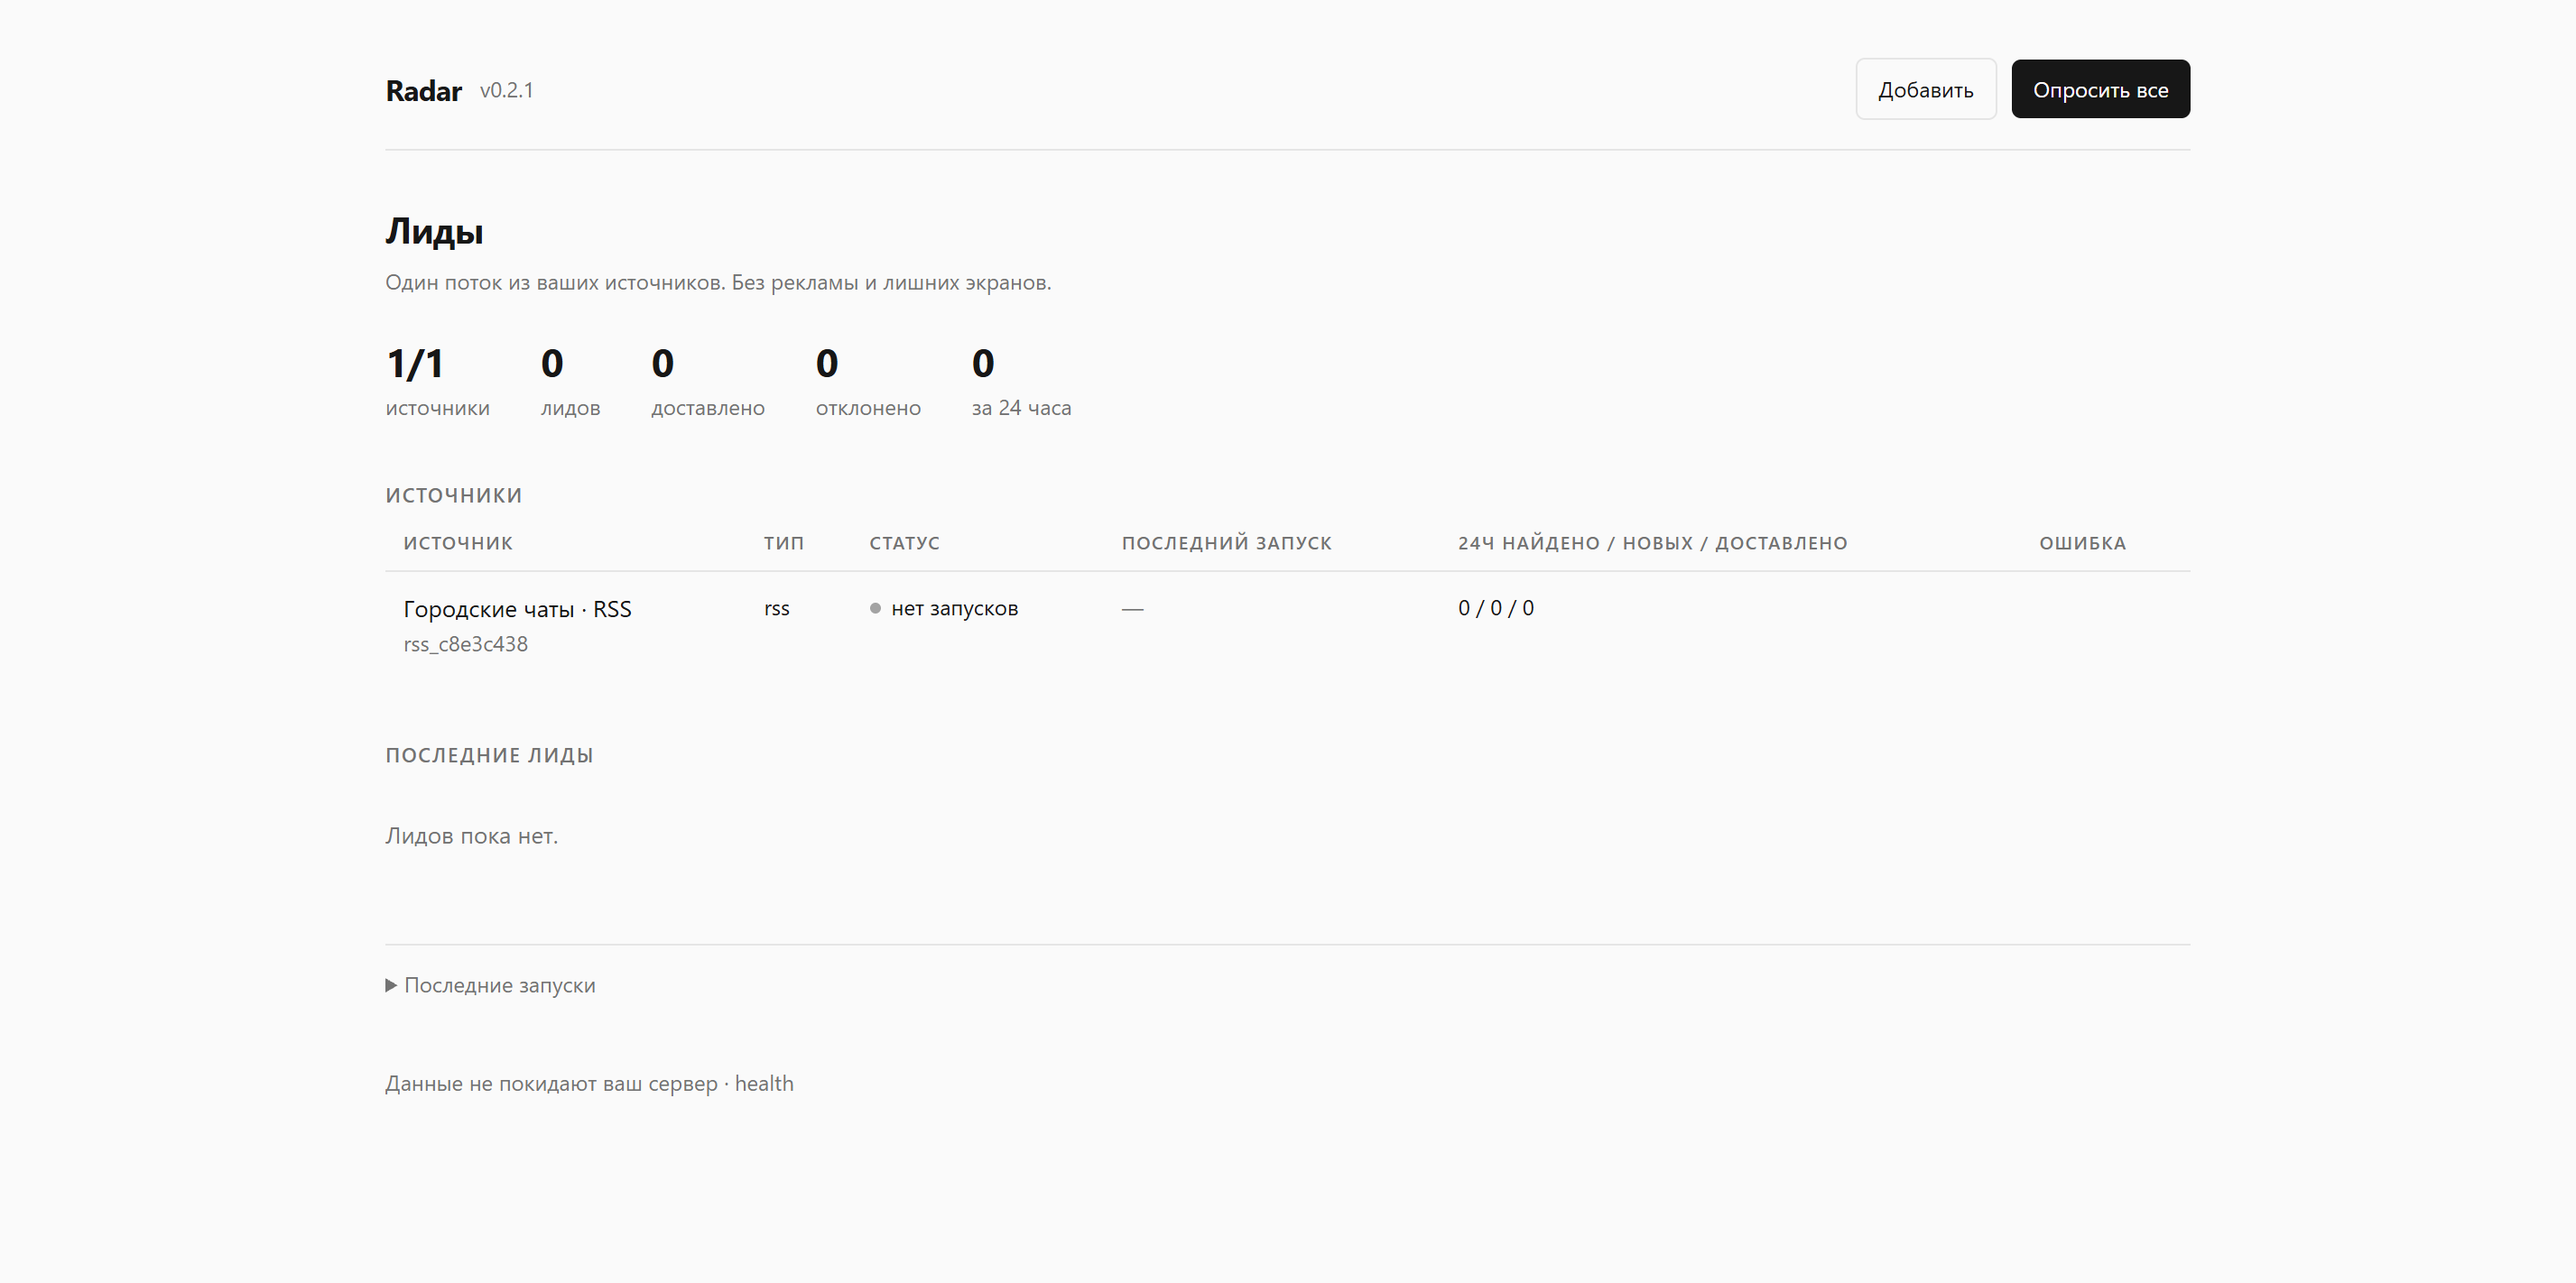
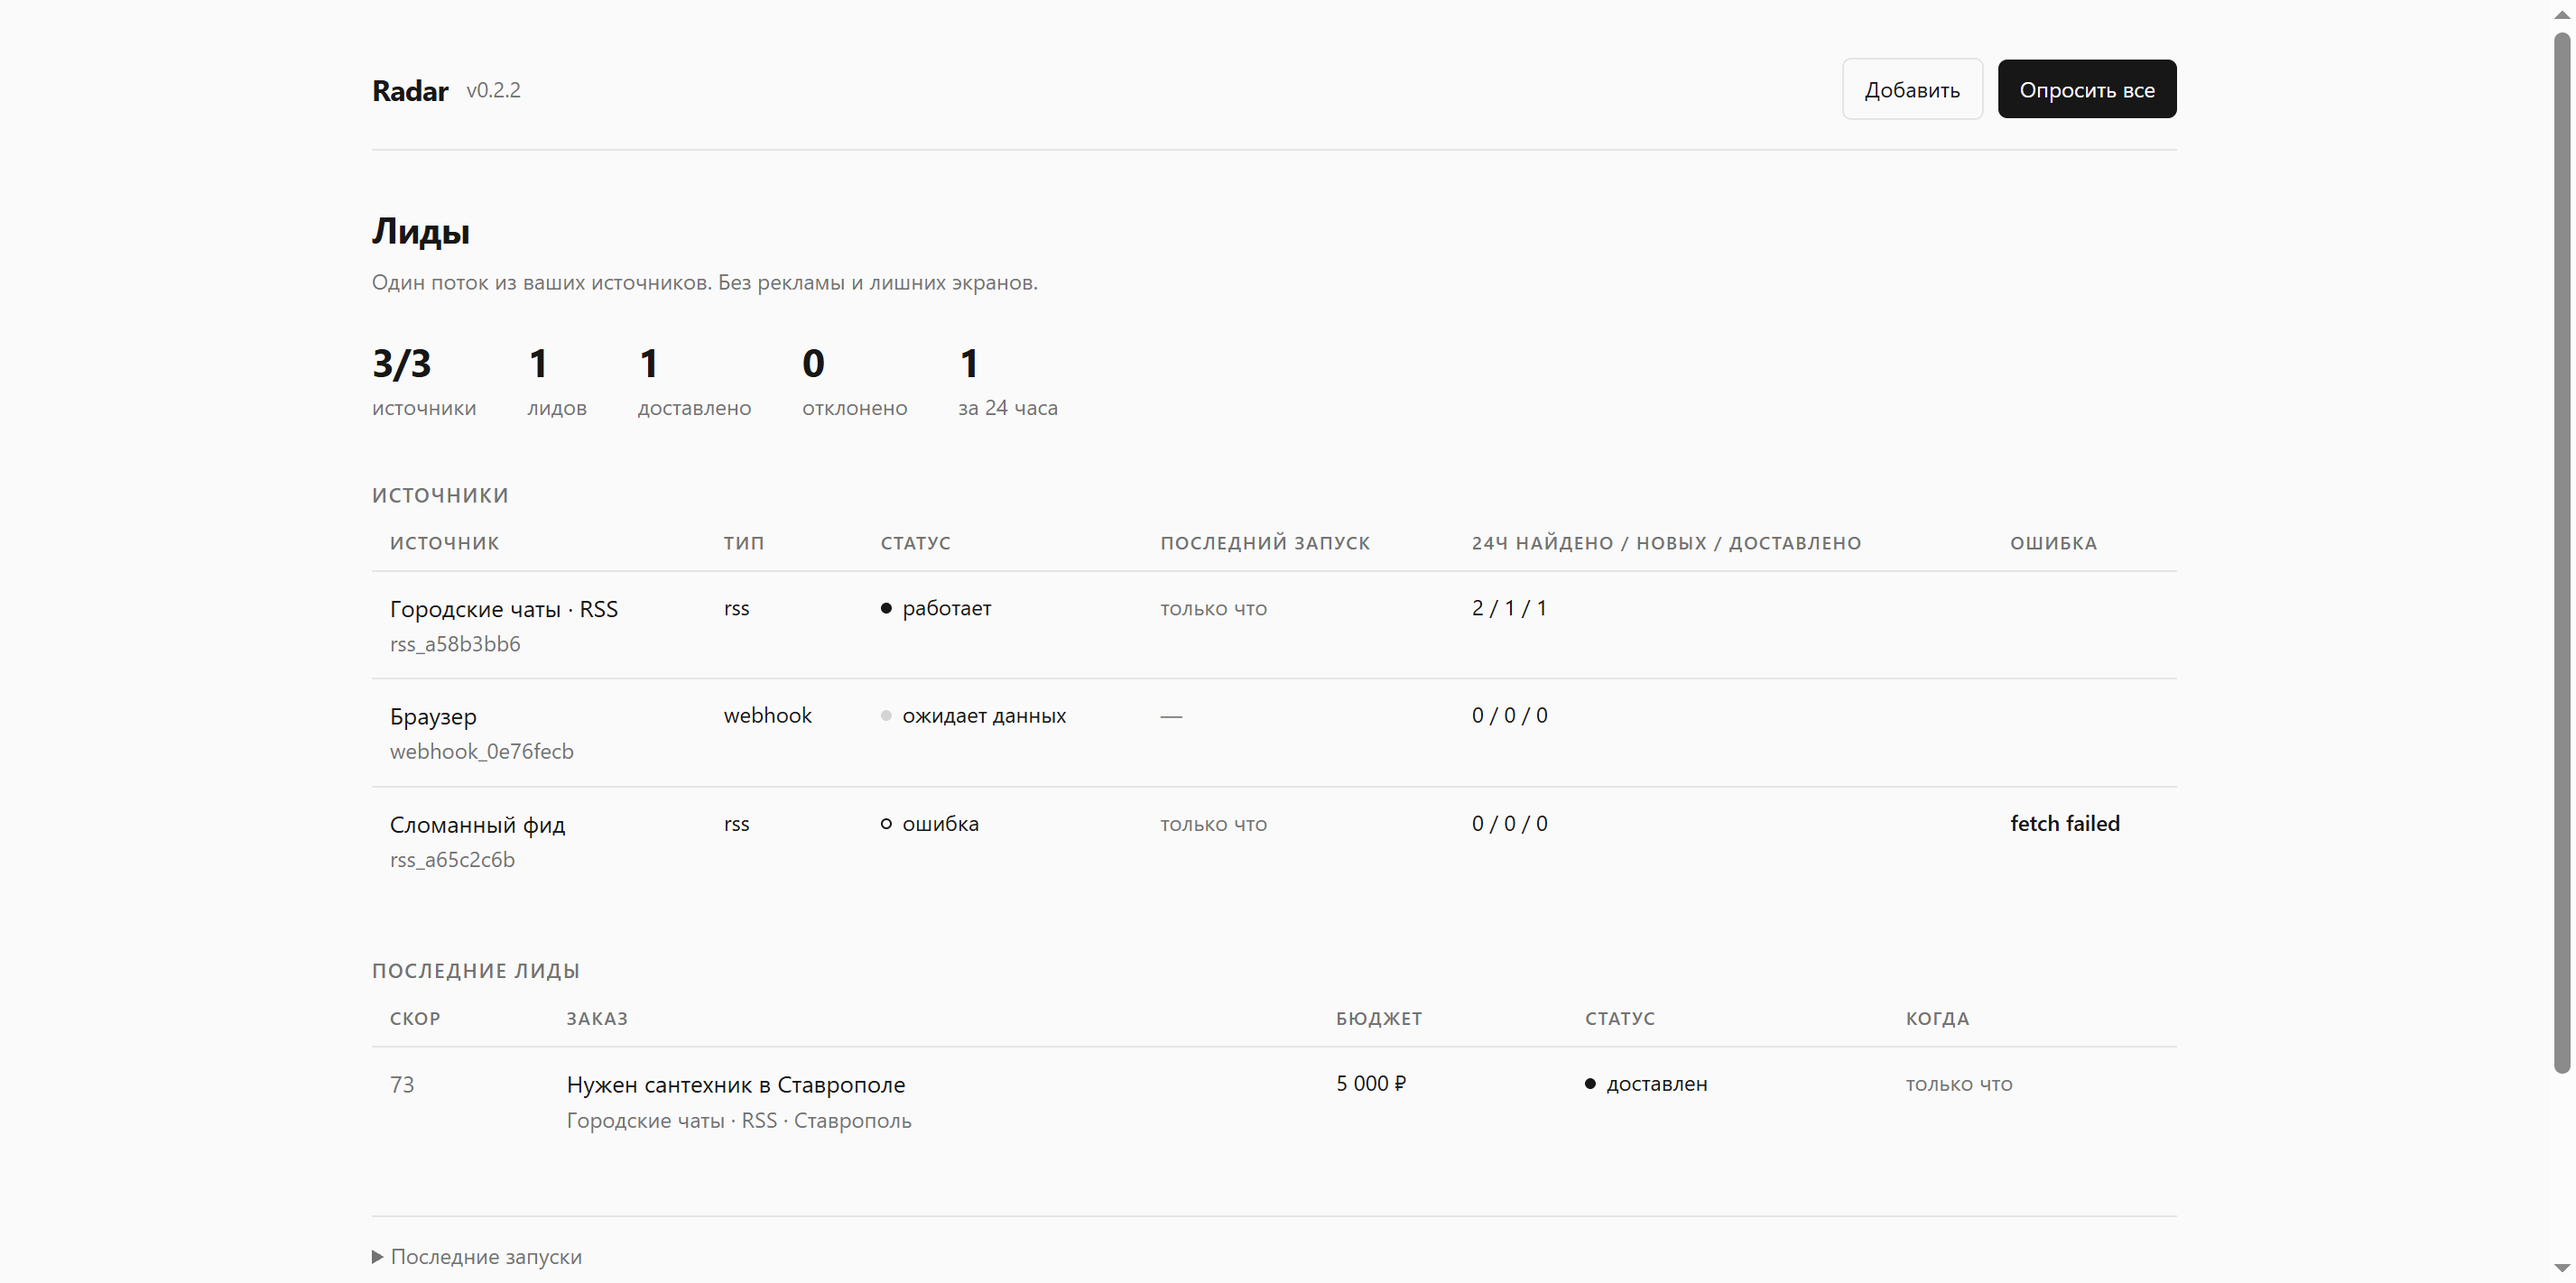
style: make the interface fully monochrome

diff --git a/src/server/ui.ts b/src/server/ui.ts
@@ -59,7 +59,7 @@ const KIND_LABELS: Record<string, string> = {
 };
 
 const STYLE = `
-:root{--bg:#fafafa;--ink:#171717;--muted:#737373;--line:#e5e5e5;--ok:#15803d;--err:#b91c1c;--warn:#a16207}
+:root{--bg:#fafafa;--ink:#171717;--muted:#737373;--line:#e5e5e5}
 *{box-sizing:border-box}
 html{-webkit-text-size-adjust:100%}
 body{margin:0;background:var(--bg);color:var(--ink);font:14px/1.55 system-ui,-apple-system,"Segoe UI",sans-serif}
@@ -83,10 +83,10 @@ td{padding:10px;border-bottom:1px solid var(--line);vertical-align:top}
 tr:last-child td{border-bottom:0}
 a{color:inherit;text-decoration:none}
 a:hover{text-decoration:underline}
-.dot{display:inline-block;width:6px;height:6px;border-radius:50%;margin-right:6px;vertical-align:1px;background:#a3a3a3}
-.dot.ok{background:var(--ok)}
-.dot.err{background:var(--err)}
-.dot.warn{background:var(--warn)}
+.dot{display:inline-block;width:6px;height:6px;border-radius:50%;margin-right:6px;vertical-align:1px;background:#d4d4d4}
+.dot.ok{background:var(--ink)}
+.dot.err{background:transparent;box-shadow:inset 0 0 0 1px var(--ink)}
+.dot.warn{background:var(--muted)}
 .btn{display:inline-block;background:var(--ink);color:#fff;border:0;border-radius:5px;padding:7px 12px;font:inherit;font-size:12px;cursor:pointer;text-decoration:none}
 .btn:hover{opacity:.85;text-decoration:none}
 .btn.ghost{background:transparent;color:var(--ink);border:1px solid var(--line)}
@@ -97,7 +97,7 @@ summary{cursor:pointer;color:var(--muted);font-size:12px}
 dl{display:grid;grid-template-columns:180px 1fr;gap:6px 16px;margin:0;font-size:13px}
 dt{color:var(--muted)}
 dd{margin:0;word-break:break-word}
-.error{color:var(--err)}
+.error{color:var(--ink);font-weight:600}
 code{font:12px/1.4 ui-monospace,SFMono-Regular,Consolas,monospace;background:#f0f0f0;padding:1px 5px;border-radius:3px}
 .back{display:inline-block;margin-bottom:14px;color:var(--muted);font-size:12px}
 .form{display:grid;gap:16px;max-width:760px}
@@ -108,9 +108,9 @@ code{font:12px/1.4 ui-monospace,SFMono-Regular,Consolas,monospace;background:#f0
 fieldset{border:1px solid var(--line);border-radius:6px;padding:14px;margin:0;display:grid;gap:12px}
 legend{font-size:10px;text-transform:uppercase;letter-spacing:.08em;color:var(--muted);padding:0 6px}
 .hint{color:var(--muted);font-size:12px}
-.error-box{border:1px solid #fecaca;background:#fef2f2;color:var(--err);padding:10px 12px;border-radius:5px;font-size:13px}
+.error-box{border:1px dashed var(--ink);background:#fff;color:var(--ink);padding:10px 12px;border-radius:5px;font-size:13px;font-weight:600}
 .inline{display:inline}
-.btn.danger{color:var(--err);border-color:#fecaca}
+.btn.danger{color:var(--ink);border-color:var(--ink);border-style:dashed}
 pre.token{background:#f0f0f0;border:1px solid var(--line);border-radius:5px;padding:12px;overflow:auto;font:12px/1.5 ui-monospace,SFMono-Regular,Consolas,monospace}
 [hidden]{display:none!important}
 @media(max-width:700px){dl{grid-template-columns:1fr}.metrics{gap:18px}main{padding:24px 14px 56px}.grid{grid-template-columns:1fr}}

diff --git a/src/server/app.ts b/src/server/app.ts
@@ -48,12 +48,13 @@ function canRead(c: Context, env: Runtime['env']): boolean {
 function loginPage(error?: string): string {
   return `<!doctype html><html lang="ru"><head><meta charset="utf-8">
 <meta name="viewport" content="width=device-width,initial-scale=1"><title>Radar — вход</title>
-<style>body{font:15px/1.5 system-ui,sans-serif;background:#f5f5f4;color:#1c1917;display:grid;place-items:center;min-height:100vh;margin:0}
-form{background:#fff;border:1px solid #e7e5e4;border-radius:12px;padding:24px;width:min(360px,90vw)}
-h1{font-size:20px;margin:0 0 6px}p{color:#78716c;font-size:13px;margin:0 0 16px}
-input{width:100%;box-sizing:border-box;padding:10px;border:1px solid #d6d3d1;border-radius:8px;font:inherit;margin-bottom:12px}
-button{width:100%;padding:10px;border:0;border-radius:8px;background:#0f766e;color:#fff;font:inherit;cursor:pointer}
-.error{color:#b91c1c;font-size:13px;margin-bottom:10px}</style></head>
+<style>body{font:14px/1.55 system-ui,-apple-system,"Segoe UI",sans-serif;background:#fafafa;color:#171717;display:grid;place-items:center;min-height:100vh;margin:0}
+form{background:#fff;border:1px solid #e5e5e5;border-radius:6px;padding:24px;width:min(360px,90vw)}
+h1{font-size:20px;margin:0 0 6px}p{color:#737373;font-size:13px;margin:0 0 16px}
+input{width:100%;box-sizing:border-box;padding:9px;border:1px solid #e5e5e5;border-radius:5px;font:inherit;margin-bottom:12px}
+input:focus{outline:1px solid #171717;border-color:#171717}
+button{width:100%;padding:9px;border:0;border-radius:5px;background:#171717;color:#fff;font:inherit;cursor:pointer}
+.error{color:#171717;font-size:13px;font-weight:600;margin-bottom:10px}</style></head>
 <body><form method="post" action="/login">
 <h1>Radar</h1><p>Введите админ-токен из RADAR_ADMIN_TOKEN</p>
 ${error ? `<div class="error">${escapeHtml(error)}</div>` : ''}

diff --git a/extension/popup.css b/extension/popup.css
@@ -3,8 +3,6 @@
   --ink: #171717;
   --muted: #737373;
   --line: #e5e5e5;
-  --ok: #15803d;
-  --err: #b91c1c;
 }
 
 * {
@@ -103,9 +101,10 @@ button.ghost {
 }
 
 .status.ok {
-  color: var(--ok);
+  color: var(--ink);
 }
 
 .status.err {
-  color: var(--err);
+  color: var(--ink);
+  font-weight: 600;
 }

diff --git a/src/version.ts b/src/version.ts
@@ -1,1 +1,1 @@
-export const VERSION = '0.2.2';
+export const VERSION = '0.2.3';

diff --git a/README.md b/README.md
@@ -6,7 +6,7 @@ Self-hosted lead pipeline for public order sources.
 
 Radar watches the sources you configure, normalizes new orders, removes duplicates, filters spam, scores relevance and delivers leads to Telegram, a webhook or the console. It is a small, inspectable alternative to paid "lead radar" channels.
 
-**Status: early v0.2.2.** It is not a hosted service and it does not promise to scrape every marketplace. It gives you a pipeline, a few working adapters and a clear contract for adding more.
+**Status: early v0.2.3.** It is not a hosted service and it does not promise to scrape every marketplace. It gives you a pipeline, a few working adapters and a clear contract for adding more.
 
 ![Radar dashboard](docs/screenshots/dashboard.png)
 

diff --git a/docs/ARCHITECTURE.md b/docs/ARCHITECTURE.md
@@ -1,6 +1,6 @@
 # Архитектура Radar
 
-Статус: v0.2.2. Документ описывает то, что уже реализовано, и границы, за которые пока не выходим.
+Статус: v0.2.3. Документ описывает то, что уже реализовано, и границы, за которые пока не выходим.
 
 ## 1. Задача
 

diff --git a/docs/PUBLISHING.md b/docs/PUBLISHING.md
@@ -55,9 +55,9 @@ Topics: `lead-generation`, `self-hosted`, `rss`, `imap`, `telegram`, `typescript
 ## 5. Release
 
 ```bash
-git tag v0.2.1
-git push origin v0.2.1
-gh release create v0.2.1 --generate-notes
+git tag v0.2.3
+git push origin v0.2.3
+gh release create v0.2.3 --generate-notes
 ```
 
 Attach nothing that contains a database or a `.env`.

diff --git a/CHANGELOG.md b/CHANGELOG.md
@@ -1,5 +1,11 @@
 # Changelog
 
+## 0.2.3
+
+- The dashboard, source page, login and extension popup are fully monochrome.
+- Status is conveyed by filled, ring and muted dots instead of colour.
+- Updated screenshots.
+
 ## 0.2.2
 
 - The admin session cookie is marked `Secure` when the request arrives over HTTPS.
